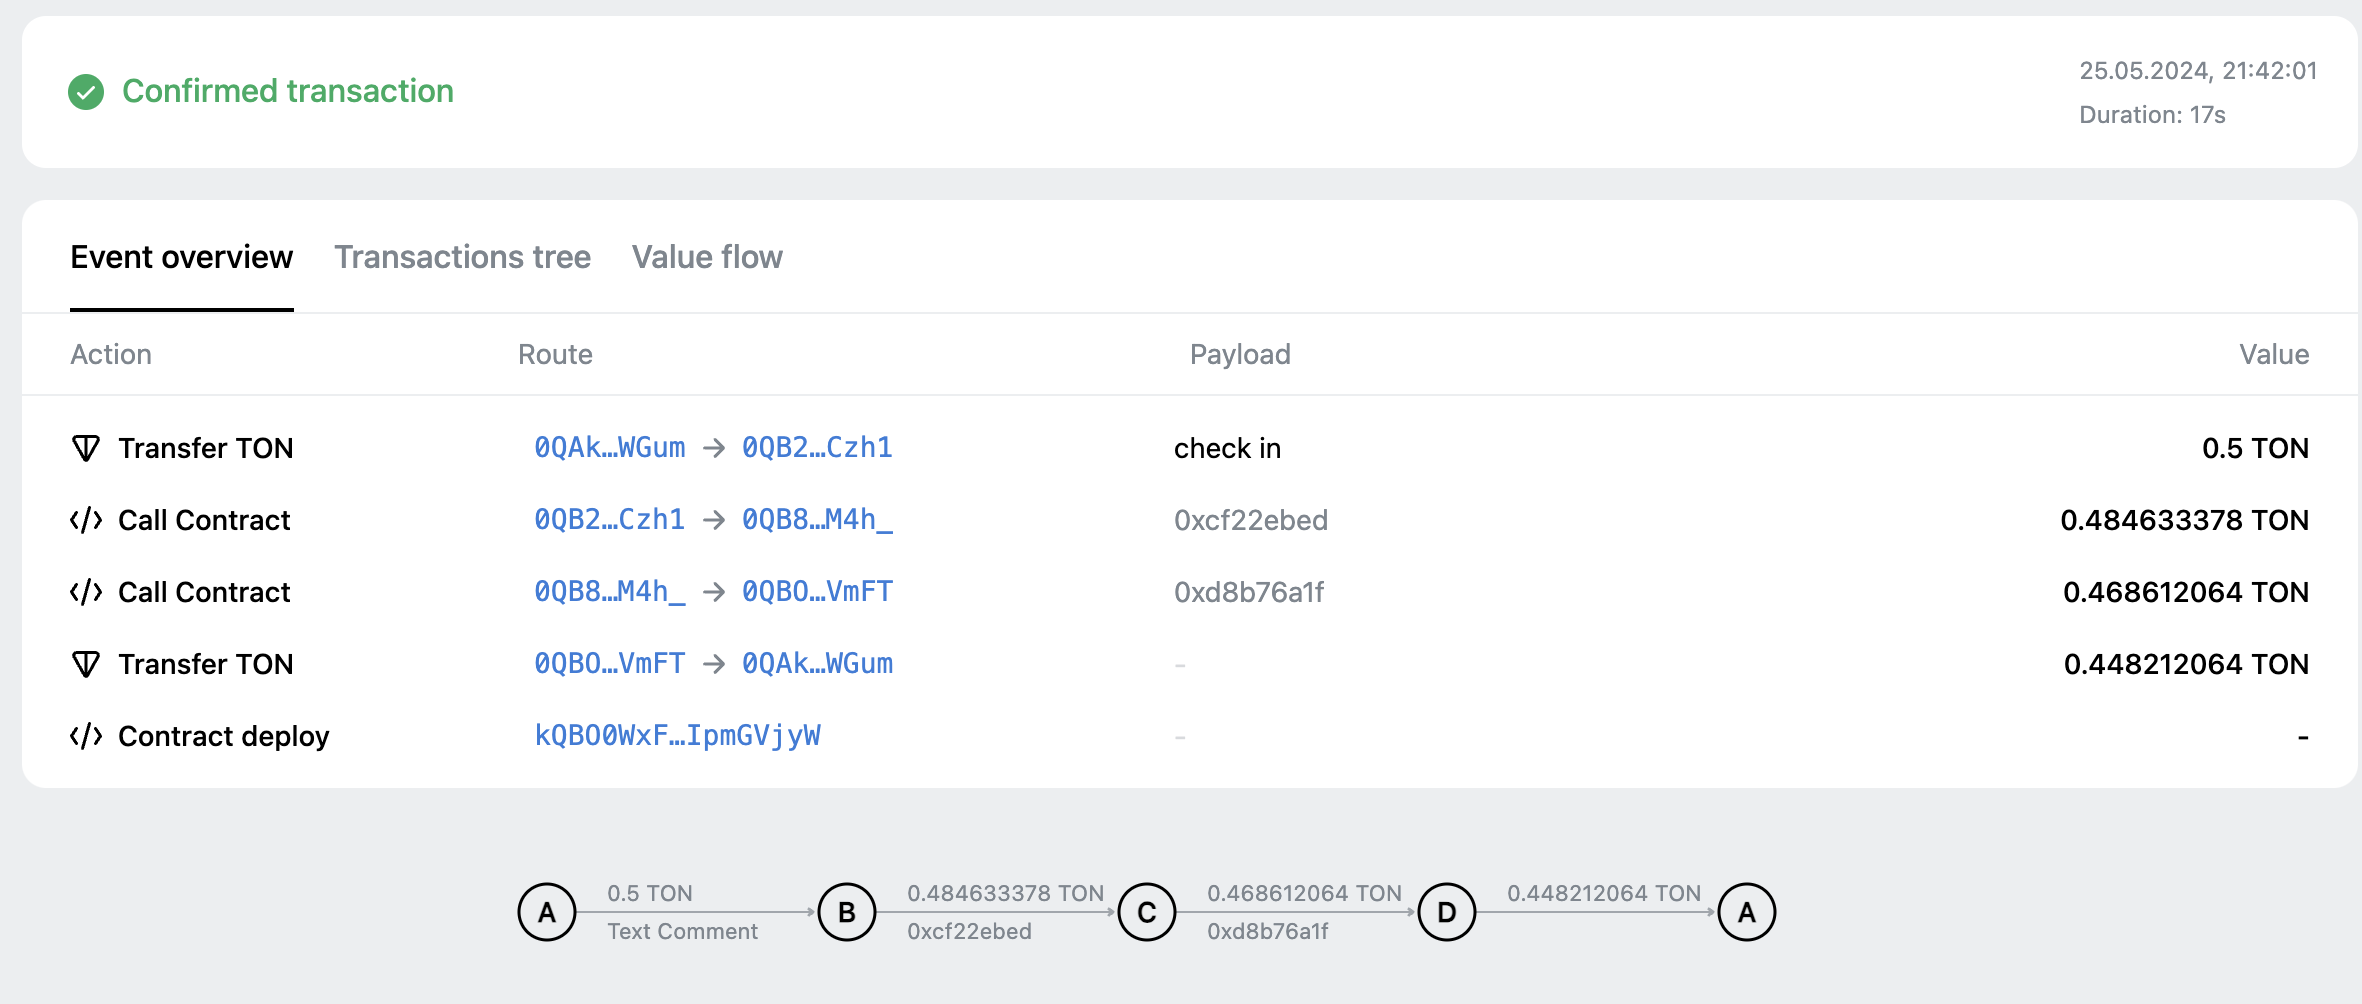
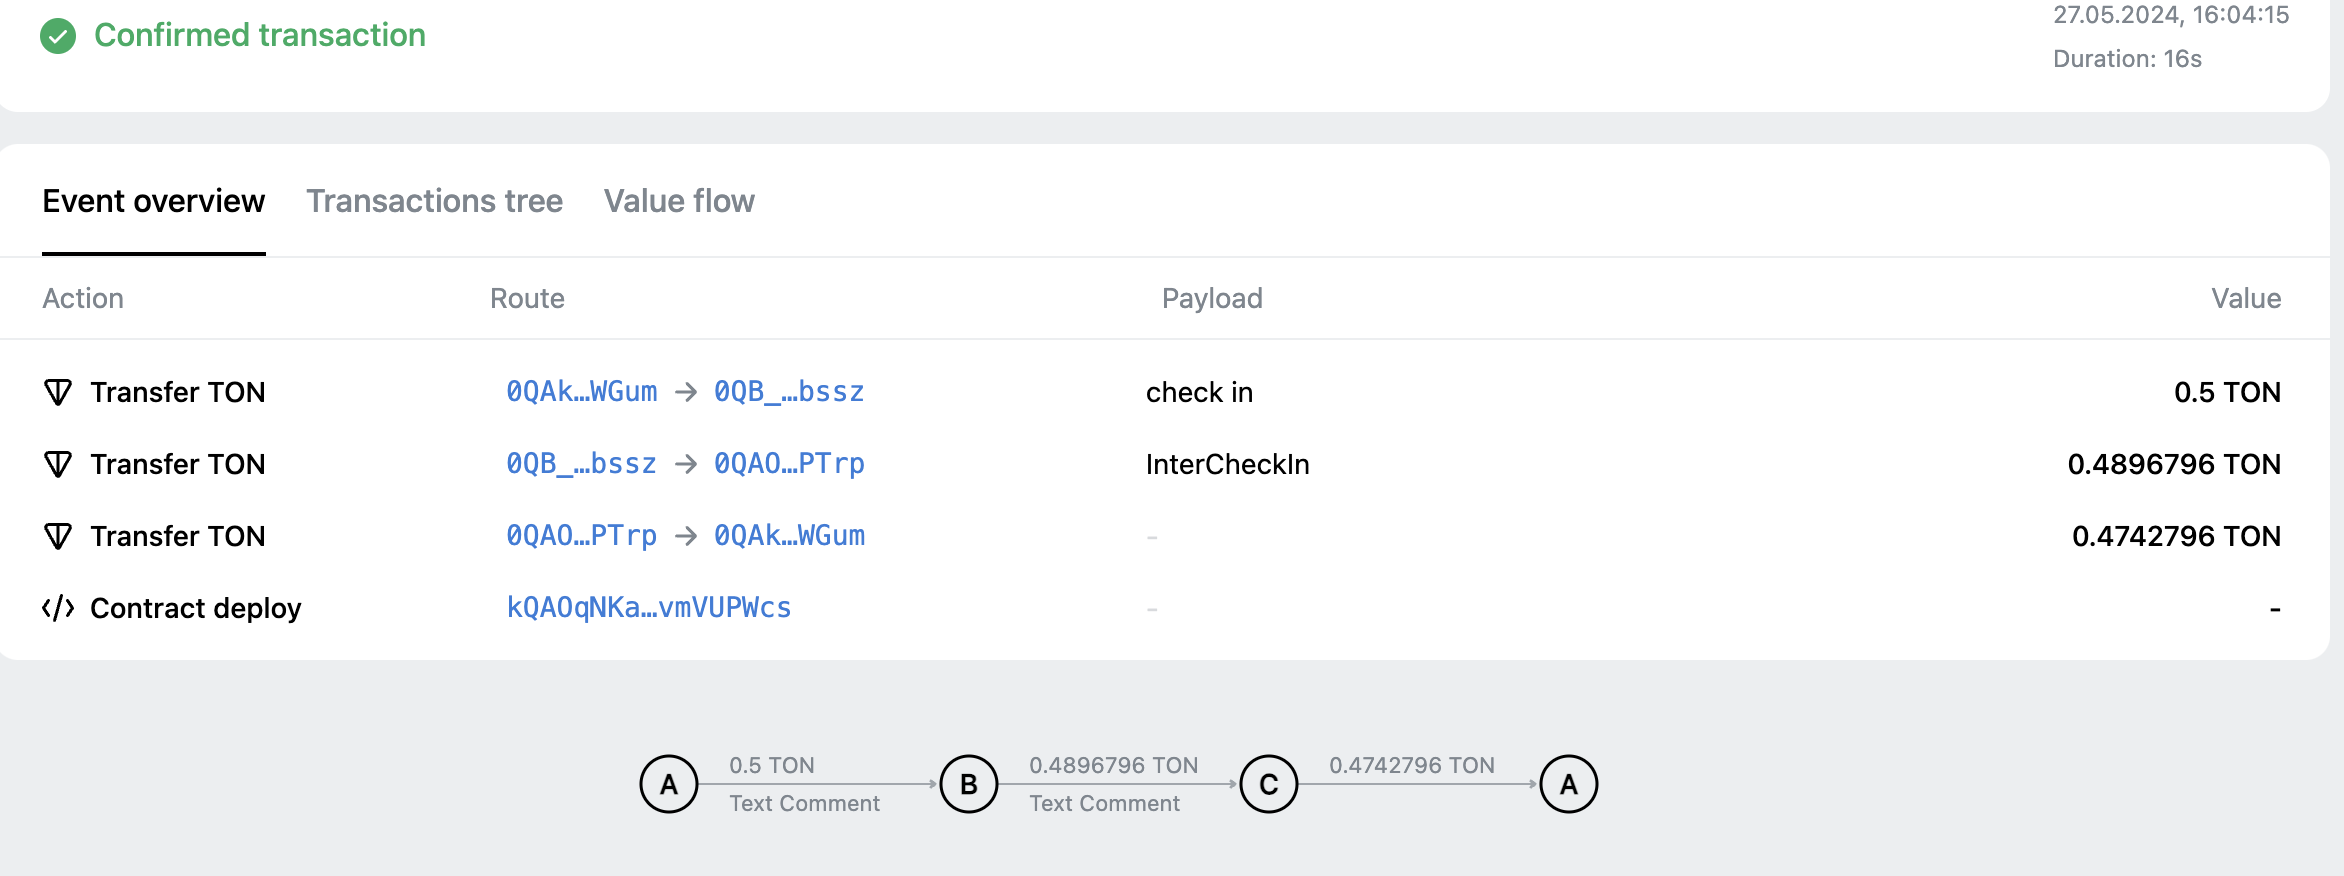
feat: delete log contract, add emit log

diff --git a/tests/CheckIn.spec.ts b/tests/CheckIn.spec.ts
@@ -2,7 +2,6 @@ import { Blockchain, SandboxContract, TreasuryContract } from '@ton/sandbox';
 import { toNano } from '@ton/core';
 import { CheckIn } from '../wrappers/CheckIn';
 import '@ton/test-utils';
-import { Log } from '../build/CheckIn/tact_Log';
 import { VerifyCheck } from '../build/CheckIn/tact_VerifyCheck';
 
 describe('CheckIn', () => {
@@ -43,10 +42,8 @@ describe('CheckIn', () => {
 
     it('Test check in', async () => {
 
-        const index = await checkIn.getCurrentIndex();
-        expect(index).toEqual(0n)
         
-        // 1 checkin
+        // checkin 1
         let checkinResult = await checkIn.send(
             deployer.getSender(),
             {
@@ -61,24 +58,15 @@ describe('CheckIn', () => {
             success: true,
         });
 
-        const log_address = await checkIn.getLogAddress(0n);
-
-        const index_after = await checkIn.getCurrentIndex();
-        expect(index_after).toEqual(1n)
-
-        const log = blockchain.openContract(Log.fromAddress(log_address));
-        
-        const record = await log.getRecord();
-
-        console.log("record:", record);
 
         const user_address = await checkIn.getVerifyAddress(deployer.address);
         const user = blockchain.openContract(VerifyCheck.fromAddress(user_address));
 
-        const user_info = await user.getCheckInfo();
-        console.log("user_info:", user_info)
+        const user_info1 = await user.getCheckInfo();
+        // console.log("user_info1:", user_info1)
+        expect(user_info1.count).toEqual(1n);
 
-        // 2 checkin
+        // checkin 2
         checkinResult = await checkIn.send(
             deployer.getSender(),
             {
@@ -94,19 +82,10 @@ describe('CheckIn', () => {
         });
 
 
-        const index_after2 = await checkIn.getCurrentIndex();
-        expect(index_after2).toEqual(2n)
-
-        const log_address_1 = await checkIn.getLogAddress(1n);
-
-        const log_1 = blockchain.openContract(Log.fromAddress(log_address_1));
-        
-        const record_1 = await log_1.getRecord();
-
-        console.log("record_1:", record_1);
 
         const user_info2 = await user.getCheckInfo();
-        console.log("user_info2:", user_info2)
+        // console.log("user_info2:", user_info2)
+        expect(user_info2.count).toEqual(2n);
 
         // 3 checkin failed
         checkinResult = await checkIn.send(
@@ -116,6 +95,7 @@ describe('CheckIn', () => {
             },
             "check in"
         );
+        
 
         expect(checkinResult.transactions).toHaveTransaction({
             from: deployer.address,
@@ -124,19 +104,11 @@ describe('CheckIn', () => {
         });
 
 
-        const index_after3 = await checkIn.getCurrentIndex();
-        console.log(index_after3)
-        expect(index_after3).toEqual(3n)
-
         const user_info3 = await user.getCheckInfo();
-
+        // console.log("user_info3:", user_info3)
         expect(user_info2).toEqual(user_info3)
 
-        const log_address_2 = await checkIn.getLogAddress(2n);
-
-        const log_2 = blockchain.openContract(Log.fromAddress(log_address_2));
-
-        expect(log_2.init).toEqual(undefined)
+ 
         
     });
 });

diff --git a/scripts/read_example.ts b/scripts/read_example.ts
@@ -25,21 +25,7 @@ const Sleep = (ms: number) => {
     let contract = CheckIn.fromAddress(Address.parse(checkin_contract_address));
     let checkin = client4.open(contract);
 
-    // get the log index
-    let current_index = await checkin.getCurrentIndex();
-    console.log("current_index:", current_index)
-
-    // history is 0 to current_index-1
-    // get the 0 index record
-    const log_contract_address_0 = await checkin.getLogAddress(0n);
-    let log_0 = client4.open(Log.fromAddress(log_contract_address_0));
-
-    try {
-        const record_0 = await log_0.getRecord();
-        console.log("record_0:", record_0);
-    } catch (error) {
-        console.error("Failed to get record_0");
-    }
+    // ... 参考测试中的调用即可
 
 
 })();

diff --git a/scripts/check_in.ts b/scripts/check_in.ts
@@ -4,7 +4,7 @@ import { NetworkProvider } from '@ton/blueprint';
 
 export async function run(provider: NetworkProvider) {
 
-    const checkin_contract_address = "0QB2mjRa7F6OifAAaiSyVO3x92ZSomoHgNqrXNYeETiMCzh1"
+    const checkin_contract_address = "0QB_pBBnqnRr-h4pv8DwsA2GG0hzuFObrrOMqOqBBgZ1bssz"
     const checkIn = provider.open(CheckIn.fromAddress(Address.parse(checkin_contract_address)))
 
     // run methods on `checkIn`

diff --git a/README.md b/README.md
@@ -16,7 +16,7 @@
 
 `npm run start`  and choose the deployCheckIn.ts
 
-testnet address： `0QB2mjRa7F6OifAAaiSyVO3x92ZSomoHgNqrXNYeETiMCzh1`
+testnet address： `0QB_pBBnqnRr-h4pv8DwsA2GG0hzuFObrrOMqOqBBgZ1bssz`
 
 ### 4. check in example
 `npm run start`  and choose the check_in.ts
